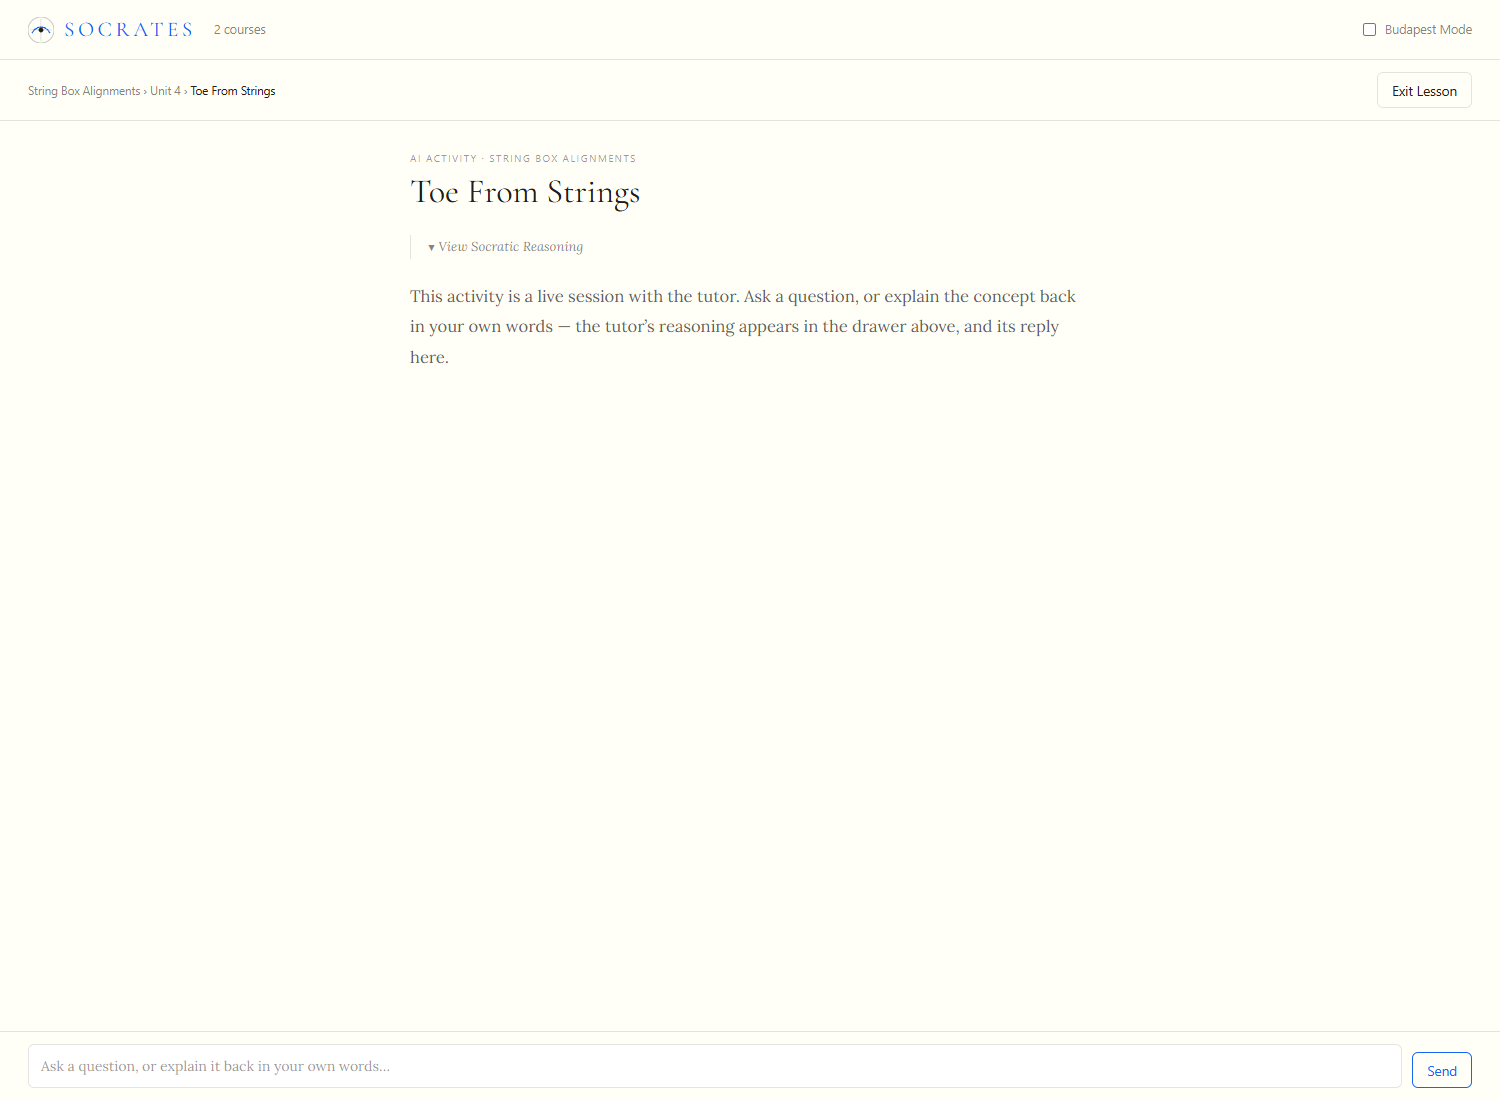
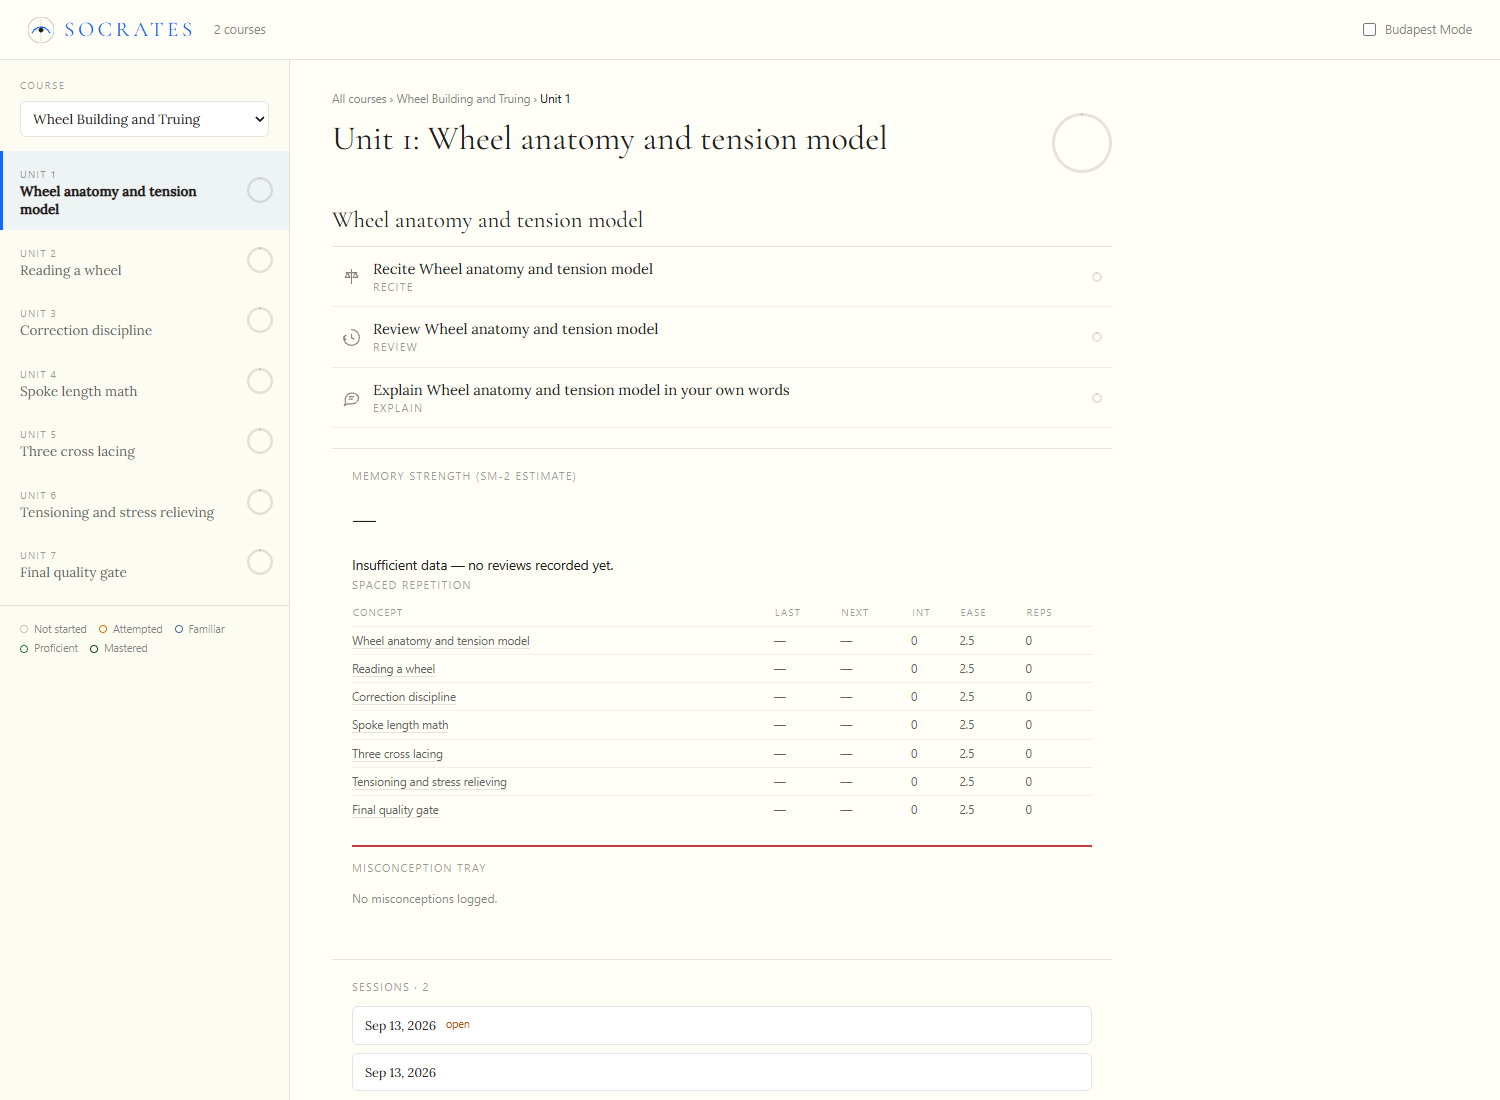
fix(P17): one casing convention — sentence case, and nothing else
humanize() title-cased every chunk, so legacy ids rendered `Bump Steer And Roll Centre` and `Toe From
Strings`. Capitalised connectives are the tell of a machine, and they made an existing course read
differently from a freshly scaffolded one in the same library, where the skill authors sentence case.

The whole rule is now one test: a `-` or `_` means the string is an identifier, so lowercase it and
capitalise only the first word; no separator means it is text someone wrote, returned unchanged. That
second half is what already made the function safe for authored names, and it is now the entire
implementation rather than an accident of splitting.

  wheel-anatomy-and-tension-model -> Wheel anatomy and tension model
  e46-drift-target-spec           -> E46 drift target spec
  Camber and toe                  -> Camber and toe        (untouched)
  kpi                             -> kpi                   (no separator: left alone)

No connective rules. A list of small words to leave lowercase is the same maintenance trap as an acronym
dictionary, and it is always wrong for some title.

Two consequences recorded rather than papered over: a single-word slug has no separator and so is left
exactly as written, and an authored name containing a hyphen loses it (`front-toe` -> `Front toe`), which
is why the skill now says to keep hyphens and underscores out of card headings and use spaces.

Tests: 134 server, 96 client. Rail re-verified in the browser on both of the owner's courses.

diff --git a/web/src/ui.test.ts b/web/src/ui.test.ts
@@ -1209,42 +1209,57 @@ test("a reload frame still works, and anything else is ignored rather than guess
 // humanize: display names, never ids
 // ---------------------------------------------------------------------------
 
-test("a slug becomes words", () => {
-  assert.equal(humanize("wheel-anatomy-and-tension-model"), "Wheel Anatomy And Tension Model");
-  assert.equal(humanize("front-toe-spec-reading"), "Front Toe Spec Reading");
+test("a slug becomes a sentence, not Title Case", () => {
+  // Sentence case is the one convention. Title-casing every chunk capitalises connectives, which is
+  // the tell of a machine and reads differently from a newly scaffolded course in the same library.
+  assert.equal(humanize("wheel-anatomy-and-tension-model"), "Wheel anatomy and tension model");
+  assert.equal(humanize("front-toe-spec-reading"), "Front toe spec reading");
+  assert.equal(humanize("bump-steer-and-roll-centre"), "Bump steer and roll centre");
 });
 
-test("snake_case and mixed separators become words", () => {
-  assert.equal(humanize("thrust_angle"), "Thrust Angle");
-  assert.equal(humanize("string-method_setup"), "String Method Setup");
+test("snake_case and mixed separators become a sentence", () => {
+  assert.equal(humanize("thrust_angle"), "Thrust angle");
+  assert.equal(humanize("string-method_setup"), "String method setup");
   // runs of separators collapse rather than producing empty words
-  assert.equal(humanize("a--b__c"), "A B C");
+  assert.equal(humanize("a--b__c"), "A b c");
 });
 
-test("already-human text is unchanged, so applying it twice is applying it once", () => {
-  // The invariant is idempotence: a course whose cards are already authored as words must not be
-  // mangled by the same code path that fixes legacy slugs.
-  const human = "Wheel Anatomy And Tension Model";
-  assert.equal(humanize(human), human);
-  assert.equal(humanize(humanize("wheel-anatomy")), humanize("wheel-anatomy"));
-  assert.equal(humanize("Alignment"), "Alignment");
-  // Sentence case a human wrote is left alone: only separator-delimited chunks are capitalised, so
-  // this cannot mangle an authored name into Title Cased Prose.
+test("an identifier with a leading acronym keeps it, and lowercases the rest", () => {
+  // The digits survive the slugger, so the acronym is recoverable here — this is the case that shows
+  // why names should be authored as words without needing a dictionary.
+  assert.equal(humanize("e46-drift-target-spec"), "E46 drift target spec");
+});
+
+test("text with no separator is returned UNCHANGED, so authored names are never mangled", () => {
+  // This is the whole safety property: the only signal that a string is an identifier is that it
+  // contains `-` or `_`. Everything else is a name someone wrote, and it passes through as-is.
   assert.equal(humanize("Camber and toe"), "Camber and toe");
   assert.equal(humanize("Wheel anatomy and tension model"), "Wheel anatomy and tension model");
+  assert.equal(humanize("Alignment"), "Alignment");
+  assert.equal(humanize("already Title Cased By Hand"), "already Title Cased By Hand");
 });
 
-test("casing the slugger already destroyed is not recovered, and is not guessed at", () => {
-  // Kpi, not KPI. A dictionary would be guessing, and a wrong expansion is worse than a plain one.
-  assert.equal(humanize("kpi"), "Kpi");
-  assert.equal(humanize("sai"), "Sai");
-  assert.equal(humanize("e46"), "E46");
+test("applying it twice is applying it once", () => {
+  // Idempotence is what lets the display layer and the source layer coexist without fighting.
+  assert.equal(humanize(humanize("wheel-anatomy")), humanize("wheel-anatomy"));
+  assert.equal(humanize(humanize("Camber and toe")), "Camber and toe");
+  assert.equal(humanize(humanize("e46-drift-target-spec")), "E46 drift target spec");
 });
 
-test("empty and whitespace-only names produce nothing rather than a stray word", () => {
+test("an acronym inside an identifier is lowercased unless the identifier has separators", () => {
+  // With separators the first word is capitalised, so `kpi-baseline-review` reads correctly.
+  assert.equal(humanize("kpi-baseline-review"), "Kpi baseline review");
+  // A SINGLE-WORD slug is indistinguishable from a word someone wrote, and the rule is that text with no
+  // separator is returned unchanged — so this stays lowercase. That is the honest cost of the rule, and
+  // the fix is authoring names as words, not a dictionary.
+  assert.equal(humanize("kpi"), "kpi");
+  assert.equal(humanize("sai"), "sai");
+});
+
+test("empty input, whitespace and bare separators produce nothing", () => {
   assert.equal(humanize(""), "");
-  assert.equal(humanize("   "), "");
   assert.equal(humanize("-"), "");
+  assert.equal(humanize("__"), "");
 });
 
 // ---------------------------------------------------------------------------

diff --git a/web/src/humanize.ts b/web/src/humanize.ts
@@ -6,31 +6,41 @@
  * text that used to reach the screen, as `wheel-anatomy-and-tension-model`. Every place a name becomes
  * pixels calls this instead.
  *
- * It is deliberately dumb. No acronym dictionary, no title-casing rules, no special cases: those need
- * maintenance, and a wrong expansion ("Kpi" → "Key Performance Indicator") is worse than a plain one.
- * The real fix for casing is authoring names as words in the first place (see the scaffold skill), which
- * is why this is the *display* half of a two-layer change and not a migration.
+ * ONE CONVENTION: sentence case. `Wheel anatomy and tension model`, not `Wheel Anatomy And Tension
+ * Model`. Title-casing every word is the tell of a machine — it capitalises `And`, `Of` and `From` —
+ * and it would make a legacy course read differently from a freshly scaffolded one in the same library,
+ * because the skill authors sentence case. Connectives are NOT special-cased: a list of small words to
+ * leave lowercase is a maintenance trap and it is always wrong for some title.
  *
  * Applied at render, NEVER at the model boundary: `course-model.ts` builds module ids and grill prompts
  * from the same strings, and humanising those would silently break lookups and telemetry.
  */
 
 /**
- * Turn an identifier into words: split on `-` and `_`, capitalise each word, join with spaces.
+ * Turn an identifier into a sentence, and leave authored text alone.
  *
- * A word is a separator-delimited chunk, so text a human already wrote passes through UNCHANGED —
- * "Camber and toe" is one word and only its first letter is touched. That is what makes the function
- * safe for both layers at once: it converts slugs, and it cannot mangle authored names, which is
- * stronger than merely being stable under re-application.
+ * The whole rule is one test: **a `-` or `_` means it is an identifier.** There is no other signal — a
+ * slugger lowercased everything, so the string itself cannot say what it once was.
+ *
+ * - Contains `-` or `_` → lowercase it and capitalise only the first word: `wheel-anatomy-and-tension-model`
+ *   becomes `Wheel anatomy and tension model`, and `e46-drift-target-spec` becomes `E46 drift target spec`.
+ * - No separator → return it unchanged, which is what makes this safe to apply to names the skill (or a
+ *   learner) already wrote as words: `Camber and toe` passes through untouched.
+ *
+ * Idempotent either way, so applying it twice is applying it once.
  *
  * The known limitation, stated rather than hidden: a slugger destroyed casing before this ever ran, so
  * `kpi` becomes `Kpi`. Legacy courses read correctly apart from acronym casing.
  */
 export function humanize(name: string): string {
-  return name
-    .trim()
+  if (!/[-_]/.test(name)) return name;
+
+  const words = name
     .split(/[-_]+/)
     .filter((word) => word.length > 0)
-    .map((word) => word.charAt(0).toUpperCase() + word.slice(1))
-    .join(" ");
+    .map((word) => word.toLowerCase());
+  if (words.length === 0) return "";
+
+  const [first, ...rest] = words;
+  return [first.charAt(0).toUpperCase() + first.slice(1), ...rest].join(" ");
 }

diff --git a/course-model.test.ts b/course-model.test.ts
@@ -340,10 +340,10 @@ test("a legacy slug course derives HUMAN module and group titles, and keeps the 
   const course = buildCourse(load("course-basic"));
   const unit = course.units[0];
 
-  assert.equal(unit.groups[0].title, "Alpha One", "the group heading is human");
+  assert.equal(unit.groups[0].title, "Alpha one", "the group heading is a sentence, not Title Case");
   assert.deepEqual(
     unit.groups[0].modules.slice(0, 3).map((m) => m.title),
-    ["Recite Alpha One", "Review Alpha One", "Explain Alpha One in your own words"],
+    ["Recite Alpha one", "Review Alpha one", "Explain Alpha one in your own words"],
     "the derived titles are display strings, so they are human at the point they are built",
   );
 
@@ -399,6 +399,6 @@ test("casing the slugger destroyed is not recovered — the documented limitatio
   mkdirSync(join(dir, ".agent", "learning"), { recursive: true });
   writeFileSync(join(dir, ".agent", "learning", "SCHEMA.md"), "### 🟨 kpi-baseline-review\n\n- **Status:** 🟨 Fair\n");
   const course = buildCourse(load2(dir));
-  assert.equal(course.units[0].groups[0].title, "Kpi Baseline Review", "Kpi, not KPI — nothing here guesses");
+  assert.equal(course.units[0].groups[0].title, "Kpi baseline review", "Kpi, not KPI — nothing here guesses");
   rmSync(dir, { recursive: true, force: true });
 });
